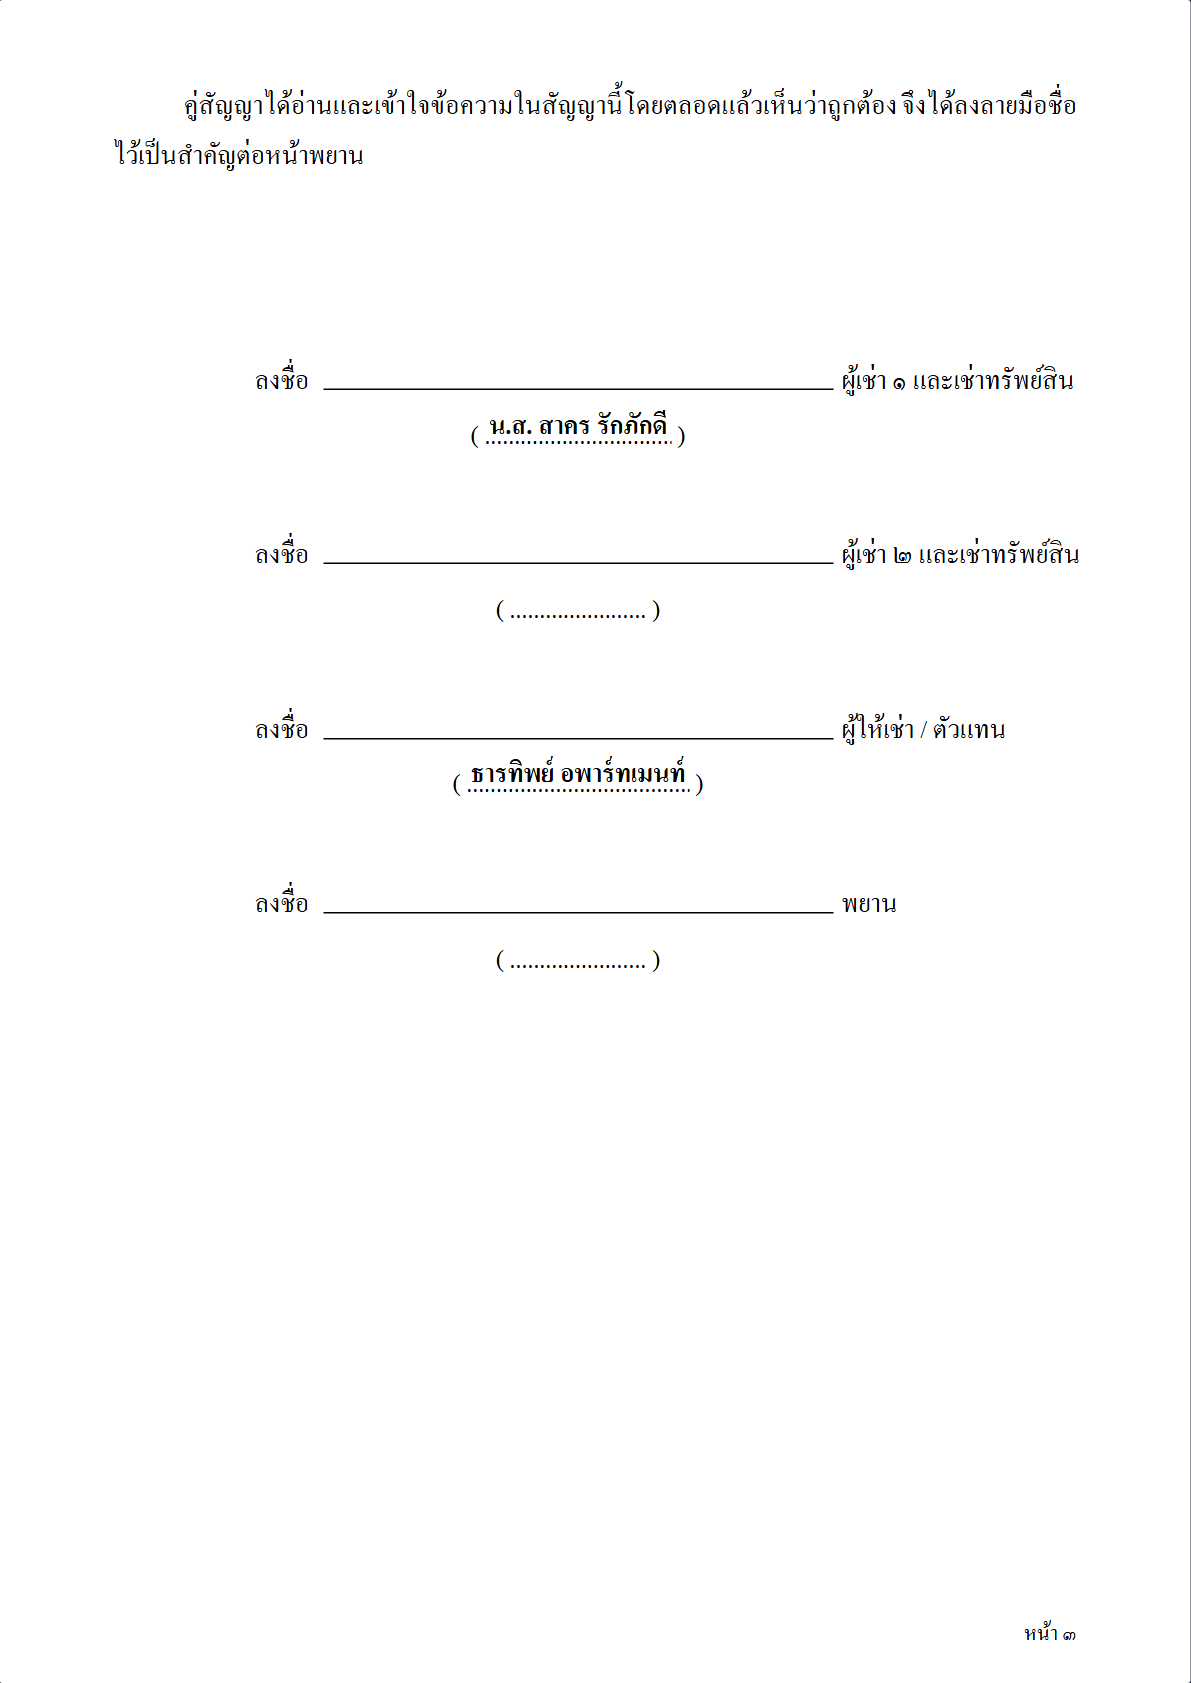
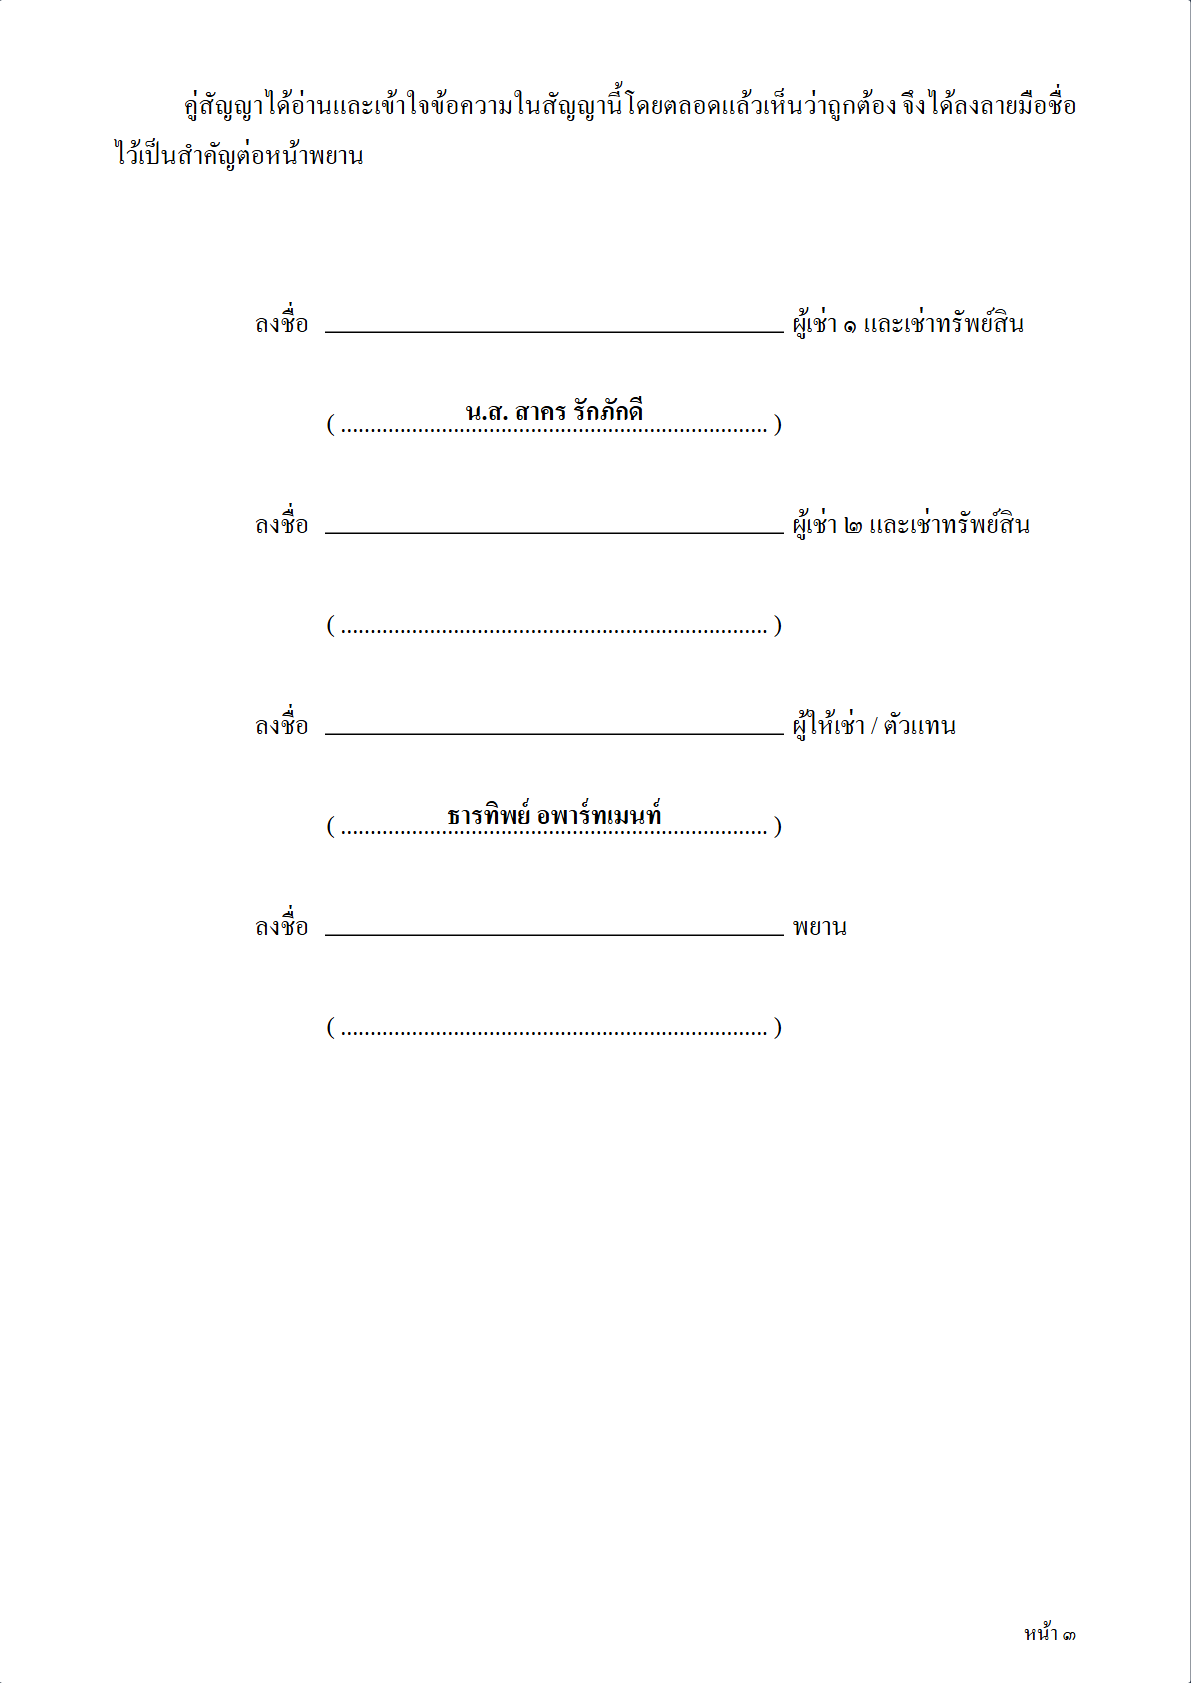
style(contract): match original Word vertical spacing and dot width in signature blocks on pages 3, 5, and 7

diff --git a/src/components/modals/LeaseAgreementModal.tsx b/src/components/modals/LeaseAgreementModal.tsx
@@ -893,7 +893,7 @@ export default function LeaseAgreementModal({
                       </div>
                       <div className={styles.signatureNameRow}>
                         <span className={styles.signatureName}>
-                          ( <BlankFill value={t1Parsed.fullName} dots={23} /> )
+                          ( <BlankFill value={t1Parsed.fullName} dots={72} /> )
                         </span>
                       </div>
                     </div>
@@ -909,7 +909,7 @@ export default function LeaseAgreementModal({
                       </div>
                       <div className={styles.signatureNameRow}>
                         <span className={styles.signatureName}>
-                          ( <BlankFill value={hasSecondTenant ? t2Parsed.fullName : ''} dots={23} /> )
+                          ( <BlankFill value={hasSecondTenant ? t2Parsed.fullName : ''} dots={72} /> )
                         </span>
                       </div>
                     </div>
@@ -925,7 +925,7 @@ export default function LeaseAgreementModal({
                       </div>
                       <div className={styles.signatureNameRow}>
                         <span className={styles.signatureName}>
-                          ( <BlankFill value={buildingName} dots={23} /> )
+                          ( <BlankFill value={buildingName} dots={72} /> )
                         </span>
                       </div>
                     </div>
@@ -939,7 +939,7 @@ export default function LeaseAgreementModal({
                       </div>
                       <div className={styles.signatureNameRow}>
                         <span className={styles.signatureName}>
-                          ( <BlankFill value="" dots={23} /> )
+                          ( <BlankFill value="" dots={72} /> )
                         </span>
                       </div>
                     </div>
@@ -1079,7 +1079,7 @@ export default function LeaseAgreementModal({
                       </div>
                       <div className={styles.signatureNameRow}>
                         <span className={styles.signatureName}>
-                          ( <BlankFill value={t1Parsed.fullName} dots={23} /> )
+                          ( <BlankFill value={t1Parsed.fullName} dots={72} /> )
                         </span>
                       </div>
                     </div>
@@ -1095,7 +1095,7 @@ export default function LeaseAgreementModal({
                       </div>
                       <div className={styles.signatureNameRow}>
                         <span className={styles.signatureName}>
-                          ( <BlankFill value={hasSecondTenant ? t2Parsed.fullName : ''} dots={23} /> )
+                          ( <BlankFill value={hasSecondTenant ? t2Parsed.fullName : ''} dots={72} /> )
                         </span>
                       </div>
                     </div>
@@ -1111,7 +1111,7 @@ export default function LeaseAgreementModal({
                       </div>
                       <div className={styles.signatureNameRow}>
                         <span className={styles.signatureName}>
-                          ( <BlankFill value={buildingName} dots={23} /> )
+                          ( <BlankFill value={buildingName} dots={72} /> )
                         </span>
                       </div>
                     </div>
@@ -1125,7 +1125,7 @@ export default function LeaseAgreementModal({
                       </div>
                       <div className={styles.signatureNameRow}>
                         <span className={styles.signatureName}>
-                          ( <BlankFill value="" dots={23} /> )
+                          ( <BlankFill value="" dots={72} /> )
                         </span>
                       </div>
                     </div>

diff --git a/src/components/modals/LeaseAgreementModal.module.css b/src/components/modals/LeaseAgreementModal.module.css
@@ -474,10 +474,10 @@
 
 /* Signatures */
 .signatureSection {
-  margin-top: 24mm;
+  margin-top: 18mm;
   display: flex;
   flex-direction: column;
-  gap: 8mm;
+  gap: 9mm;
   padding-left: 25mm;
 }
 
@@ -489,16 +489,15 @@
 .signatureRow {
   display: flex;
   align-items: flex-end;
-  height: 13mm;
 }
 
 .signatureLabel {
-  width: 12mm;
+  width: 12.3mm;
   flex-shrink: 0;
 }
 
 .signatureLine {
-  width: 90mm;
+  width: 81mm;
   flex-shrink: 0;
   border-bottom: 1px solid #000000;
   margin-bottom: 9px; /* sits slightly above the baseline of "ลงชื่อ" */
@@ -513,9 +512,9 @@
 .signatureNameRow {
   display: flex;
   justify-content: center;
-  width: 90mm;
-  margin-left: 12mm;
-  margin-top: 1mm;
+  width: 81mm;
+  margin-left: 12.3mm;
+  margin-top: 9mm;
 }
 
 .signatureName {
@@ -625,7 +624,7 @@
 
 .certifySignLine {
   font-size: 18pt;
-  margin-bottom: 0.25rem;
+  margin-bottom: 6mm;
 }
 
 .certifyText {
